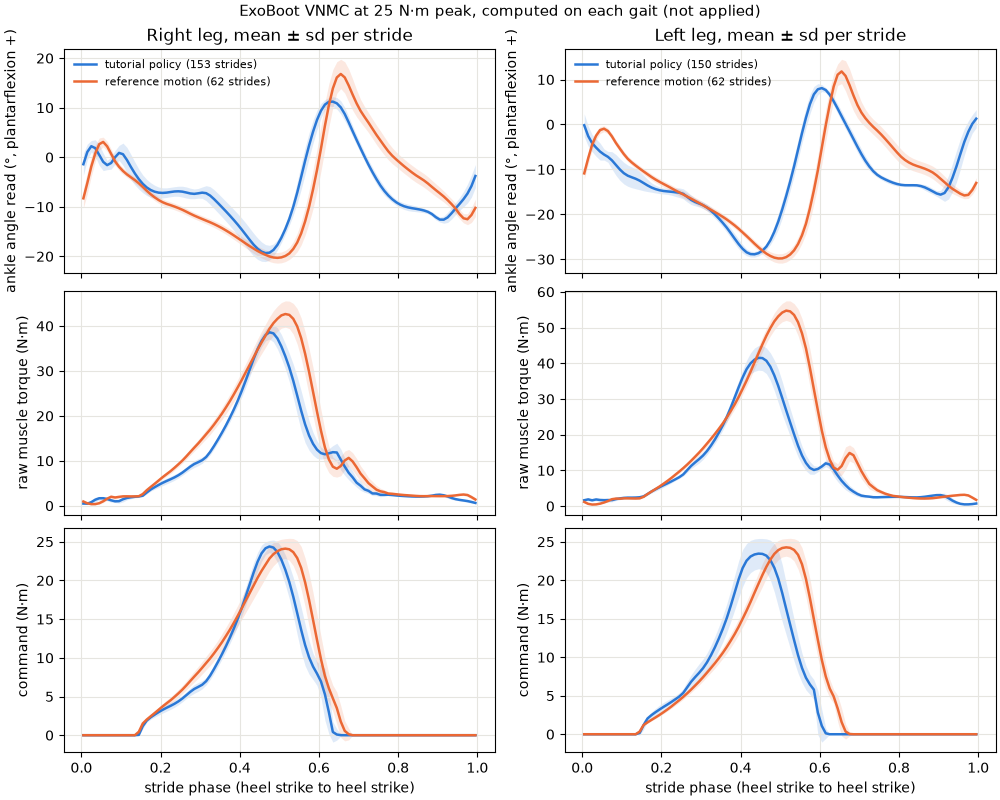
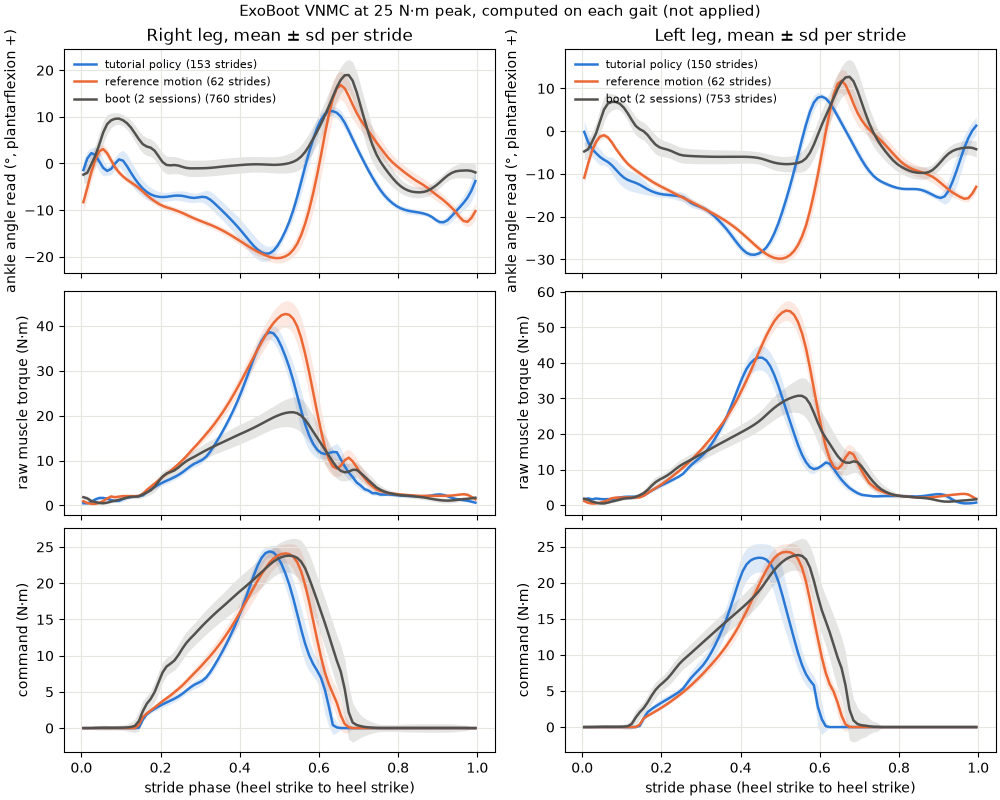
VNMC figure: overlay the boot's two sessions (per-stride mean ± sd)

diff --git a/rl_train/train/train_configs/exoboot_vnmc/README.md b/rl_train/train/train_configs/exoboot_vnmc/README.md
@@ -209,7 +209,9 @@ off about 0.05 of the stride earlier. The reference's ankle is itself more dorsi
 raw muscle torque runs higher (43 and 55 N·m against 21 and 31), which the per-stance scaling takes out. So the port
 reproduces the boot's command on a human-like gait, and the early peak on the tutorial policy is its push-off.
 
-![VNMC per stride on the tutorial policy and on the reference motion](figures/vnmc_policy_vs_reference.png)
+Per stride, mean ± sd, on the tutorial policy, on the reference motion and in the boot's two VNMC sessions (logged):
+
+![VNMC per stride on the tutorial policy, the reference motion and the boot](figures/vnmc_policy_vs_reference.png)
 
 **The muscle works off the participant's range.** Through the standing angles, the policy's ankle reads as the boot's
 would, and over its walking it spans −21 to +12° (right) and −29 to +8° (left), p1 to p99, against −7 to +21° and −12 to
